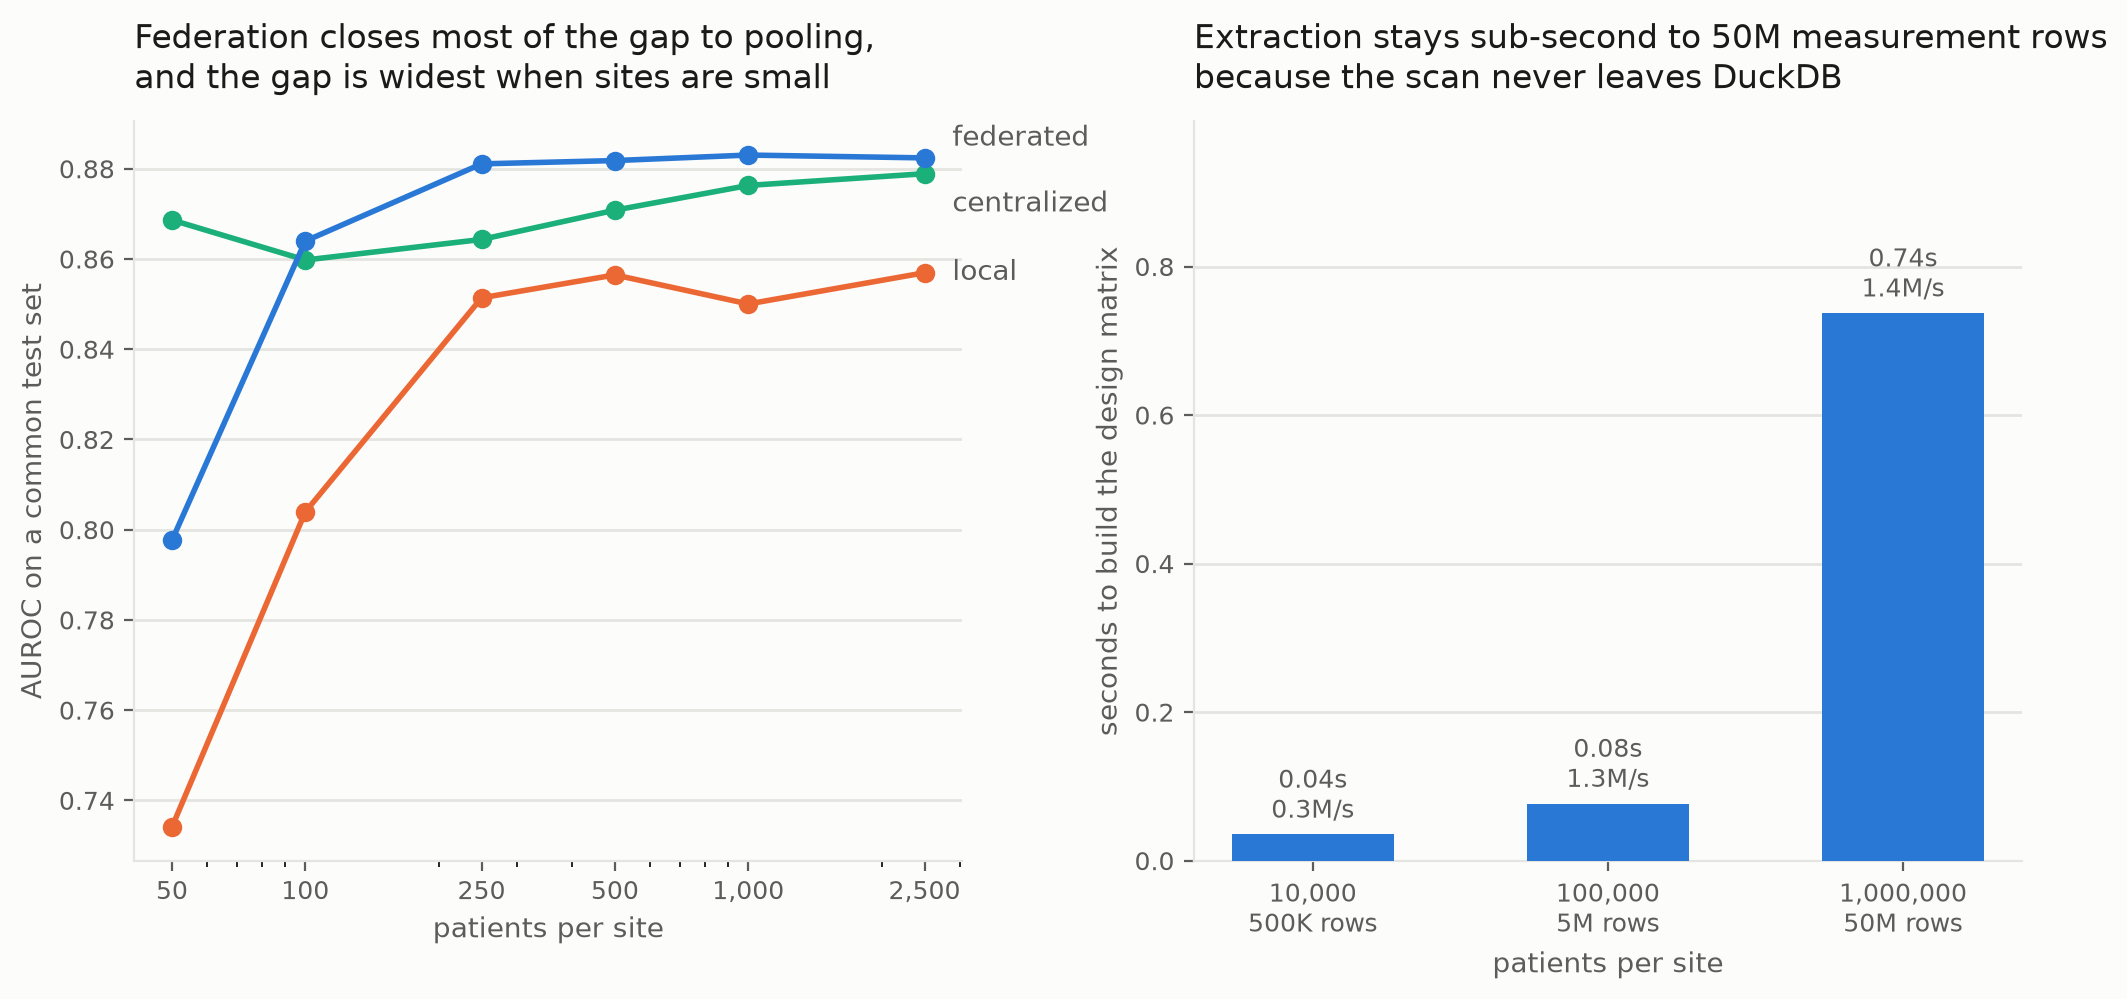
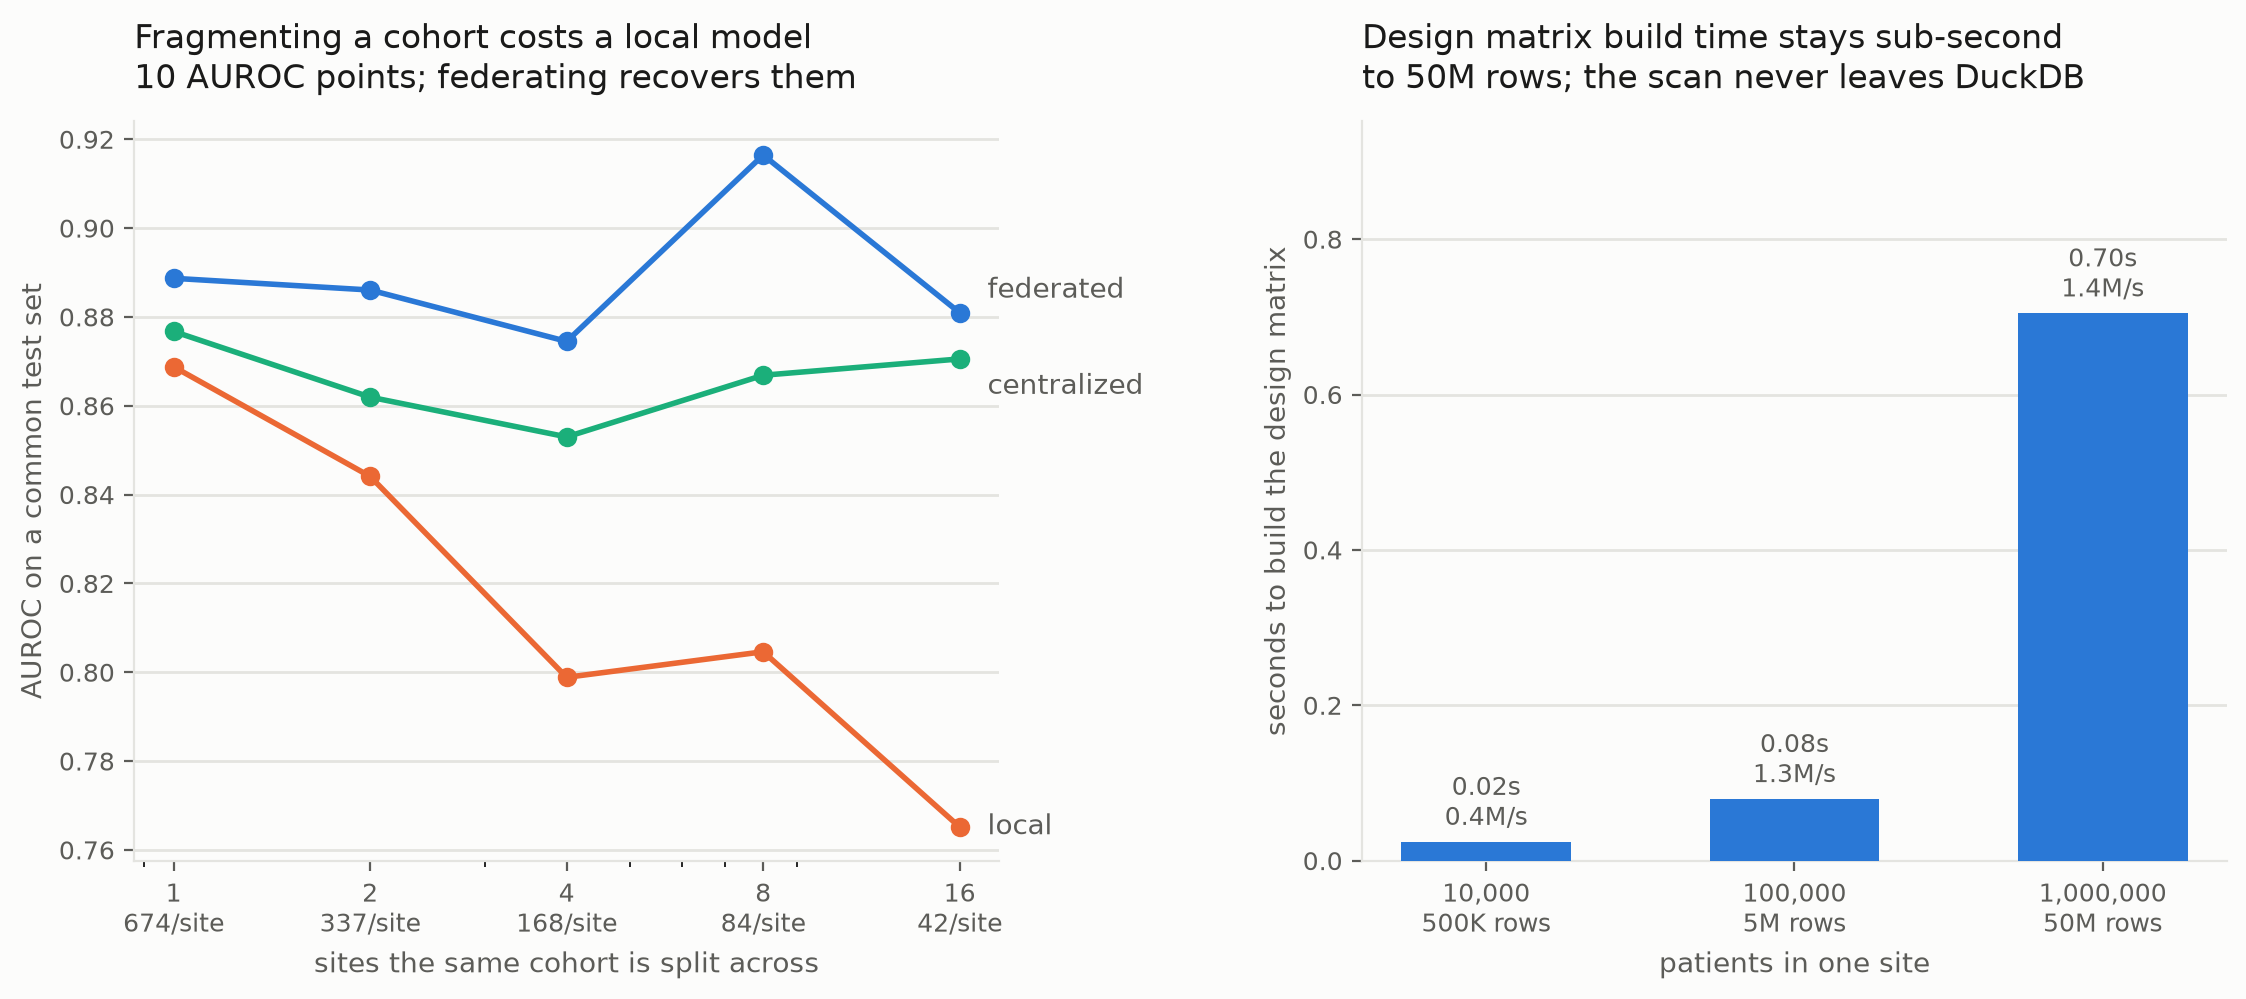
Build the figure on a real OMOP dataset instead of Gaussians
The accuracy panel now runs on the public Synthea OMOP CDM export at
s3://synthea-omop/synthea1k, a real ETL-Synthea conversion that needs no
credentials. The task is incident prediction: 964 patients who had not yet
acquired concept 4217975 by 2015-01-01, features are the 30 commonest prior
conditions and 30 commonest prior drugs plus age, and prevalent cases are
excluded so the outcome cannot be read off the history.

The experiment holds the cohort fixed and splits it across more sites. A local
model falls from 0.869 to 0.765 AUROC as the data fragments to 42 patients a
site, while FedAvg holds near 0.88, averaged over five seeds.

Checked the signal is real before building on it: positives are younger than
negatives, 20 against 43, and the strongest coefficients are paediatric drug
exposures, so the model is picking up lifestage rather than a leak.

diff --git a/examples/fl_benchmark.py b/examples/fl_benchmark.py
@@ -3,6 +3,7 @@ from __future__ import annotations
 import copy
 import json
 import time
+import urllib.request
 from pathlib import Path
 
 import duckdb
@@ -15,9 +16,14 @@ import omopflare as of
 
 HERE = Path(__file__).parent
 OUT = HERE / "fl_benchmark.json"
-SITES = 5
-FEATURES = 20
-ROUNDS = 25
+CDM = HERE / ".synthea1k"
+BUCKET = "https://synthea-omop.s3.amazonaws.com/synthea1k"
+TABLES = ("person", "condition_occurrence", "drug_exposure", "observation_period")
+
+OUTCOME = 4217975
+LANDMARK = "2015-01-01"
+ROUNDS = 20
+SEEDS = 5
 
 
 class Net(nn.Module):
@@ -30,30 +36,78 @@ class Net(nn.Module):
         return self.net(x).squeeze(-1)
 
 
-def make_cohort(n: int, rng: np.random.Generator, beta: np.ndarray, shift: float) -> tuple[np.ndarray, np.ndarray]:
-    """Draw a site whose covariate means are shifted, so the sites are not identically distributed.
+def fetch() -> Path:
+    """Download the public Synthea OMOP CDM export, which needs no credentials."""
+    CDM.mkdir(exist_ok=True)
+    for table in TABLES:
+        target = CDM / f"{table}.csv"
+        if not target.exists():
+            urllib.request.urlretrieve(f"{BUCKET}/{table}.csv", target)
+    return CDM
+
+
+def cohort(source: of.OmopSource) -> tuple[np.ndarray, np.ndarray, of.FeatureSpec]:
+    """Build an incident-prediction cohort: who acquires the outcome after the landmark.
 
     Args:
-        n: Patients to draw.
-        rng: Source of randomness.
-        beta: Shared coefficients, so one model can fit every site.
-        shift: Per-site mean offset.
+        source: The CDM to read.
 
     Returns:
-        The covariates and the binary outcome.
+        The design matrix, the labels and the spec used.
     """
-    X = rng.normal(shift, 1.0, size=(n, len(beta)))
-    p = 1.0 / (1.0 + np.exp(-(X @ beta)))
-    return X, (rng.random(n) < p).astype(np.float64)
+    common = f"""
+        select condition_concept_id from condition_occurrence
+        where condition_concept_id > 0 and condition_concept_id <> {OUTCOME}
+          and condition_start_date < date '{LANDMARK}'
+        group by 1 having count(distinct person_id) >= 30 order by count(distinct person_id) desc limit 30
+    """
+    drugs = f"""
+        select drug_concept_id from drug_exposure
+        where drug_concept_id > 0 and drug_exposure_start_date < date '{LANDMARK}'
+        group by 1 having count(distinct person_id) >= 30 order by count(distinct person_id) desc limit 30
+    """
+    spec = of.FeatureSpec(
+        features=tuple(
+            [of.Feature(f"c{r[0]}", r[0], "condition_occurrence") for r in source.sql(common).fetchall()]
+            + [of.Feature(f"d{r[0]}", r[0], "drug_exposure") for r in source.sql(drugs).fetchall()]
+        ),
+        vocabulary_version="synthea-omop-1k",
+        lookback_days=3650,
+    )
+    index = f"""
+        select p.person_id, date '{LANDMARK}' as index_date, 2015 - p.year_of_birth as age,
+               cast(max(case when c.condition_concept_id = {OUTCOME}
+                             and c.condition_start_date >= date '{LANDMARK}' then 1 else 0 end) as double) as label
+        from person p
+        left join condition_occurrence c on c.person_id = p.person_id
+        where p.person_id not in (
+            select person_id from condition_occurrence
+            where condition_concept_id = {OUTCOME} and condition_start_date < date '{LANDMARK}'
+        )
+        group by p.person_id, p.year_of_birth
+    """
+    ids, X = of.design_matrix(source, spec, index)
+    table = source.sql(index).arrow().read_all()
+    meta = dict(
+        zip(
+            table.column("person_id").to_pylist(),
+            zip(table.column("age").to_pylist(), table.column("label").to_pylist(), strict=True),
+            strict=True,
+        )
+    )
+    age = np.array([[meta[int(i)][0]] for i in ids], dtype=np.float64)
+    y = np.array([meta[int(i)][1] for i in ids], dtype=np.float64)
+    return np.hstack([np.nan_to_num(X), age]), y, spec
 
 
 def fit(X: np.ndarray, y: np.ndarray, epochs: int, init: dict | None = None) -> Net:
     model = Net(X.shape[1])
     if init is not None:
         model.load_state_dict(init)
-    loader = of.dataloader(of.CohortDataset(X, y), batch_size=64, shuffle=True)
-    criterion = nn.BCEWithLogitsLoss()
+    positives = max(y.sum(), 1.0)
+    criterion = nn.BCEWithLogitsLoss(pos_weight=torch.tensor((len(y) - positives) / positives, dtype=torch.float32))
     optimizer = torch.optim.Adam(model.parameters(), lr=5e-3)
+    loader = of.dataloader(of.CohortDataset(X, y), batch_size=32, shuffle=True)
     model.train()
     for _ in range(epochs):
         for features, labels in loader:
@@ -66,8 +120,7 @@ def fit(X: np.ndarray, y: np.ndarray, epochs: int, init: dict | None = None) -> 
 def auroc(model: Net, X: np.ndarray, y: np.ndarray) -> float:
     model.eval()
     with torch.no_grad():
-        scores = torch.sigmoid(model(torch.from_numpy(X).float())).numpy()
-    return float(roc_auc_score(y, scores))
+        return float(roc_auc_score(y, torch.sigmoid(model(torch.from_numpy(X).float())).numpy()))
 
 
 def fedavg(shards: list[tuple[np.ndarray, np.ndarray]], rounds: int = ROUNDS) -> Net:
@@ -83,20 +136,41 @@ def fedavg(shards: list[tuple[np.ndarray, np.ndarray]], rounds: int = ROUNDS) ->
     return model
 
 
-def accuracy_curve() -> list[dict[str, float]]:
-    rng = np.random.default_rng(0)
-    beta = rng.normal(0, 0.6, size=FEATURES)
-    shifts = np.linspace(-0.6, 0.6, SITES)
-    Xte, yte = make_cohort(20000, np.random.default_rng(7), beta, 0.0)
+def fragmentation_curve() -> list[dict[str, float]]:
+    """Hold the total cohort fixed and split it across more and more sites."""
+    X, y, spec = cohort(of.OmopSource(fetch()))
+    print(f"cohort {len(y)} patients, {int(y.sum())} events, {X.shape[1]} features ({spec.width} from the spec)")
 
     rows = []
-    for n in (50, 100, 250, 500, 1000, 2500):
-        shards = [make_cohort(n, rng, beta, s) for s in shifts]
-        local = float(np.mean([auroc(fit(X, y, 30), Xte, yte) for X, y in shards]))
-        federated = auroc(fedavg(shards), Xte, yte)
-        pooled = auroc(fit(np.vstack([s[0] for s in shards]), np.concatenate([s[1] for s in shards]), 30), Xte, yte)
-        rows.append({"per_site_n": n, "local": local, "federated": federated, "centralized": pooled})
-        print(f"n={n:5d}/site  local {local:.3f}  federated {federated:.3f}  centralized {pooled:.3f}", flush=True)
+    for sites in (1, 2, 4, 8, 16):
+        local, federated, pooled = [], [], []
+        for seed in range(SEEDS):
+            rng = np.random.default_rng(seed)
+            order = rng.permutation(len(y))
+            cut = int(0.7 * len(y))
+            train, test = order[:cut], order[cut:]
+            Xtr, ytr, Xte, yte = X[train], y[train], X[test], y[test]
+            scaler = of.SiteStats.from_matrix(Xtr)
+            Xtr, Xte = of.standardize(Xtr, scaler), of.standardize(Xte, scaler)
+
+            parts = np.array_split(rng.permutation(len(ytr)), sites)
+            shards = [(Xtr[p], ytr[p]) for p in parts if ytr[p].sum() > 0]
+            local.append(float(np.mean([auroc(fit(sx, sy, 40), Xte, yte) for sx, sy in shards])))
+            federated.append(auroc(fedavg(shards), Xte, yte))
+            pooled.append(auroc(fit(Xtr, ytr, 40), Xte, yte))
+        row = {
+            "sites": sites,
+            "patients_per_site": int(0.7 * len(y) / sites),
+            "local": float(np.mean(local)),
+            "federated": float(np.mean(federated)),
+            "centralized": float(np.mean(pooled)),
+        }
+        rows.append(row)
+        print(
+            f"{sites:2d} sites ({row['patients_per_site']:3d}/site)  "
+            f"local {row['local']:.3f}  federated {row['federated']:.3f}  centralized {row['centralized']:.3f}",
+            flush=True,
+        )
     return rows
 
 
@@ -139,8 +213,7 @@ def throughput() -> list[dict[str, float]]:
 
 
 if __name__ == "__main__":
-    print("accuracy")
-    accuracy = accuracy_curve()
-    print("\nthroughput")
+    accuracy = fragmentation_curve()
+    print()
     scale = throughput()
     OUT.write_text(json.dumps({"accuracy": accuracy, "throughput": scale}, indent=2) + "\n")

diff --git a/examples/fl_figure.py b/examples/fl_figure.py
@@ -21,12 +21,12 @@ def thousands(value: float, _: int) -> str:
 def main() -> None:
     payload = json.loads(DATA.read_text())
     accuracy, throughput = payload["accuracy"], payload["throughput"]
-    ns = [row["per_site_n"] for row in accuracy]
+    ns = [row["sites"] for row in accuracy]
 
-    fig, (left, right) = plt.subplots(1, 2, figsize=(12.5, 4.8), facecolor=SURFACE)
-    fig.subplots_adjust(wspace=0.28, right=0.88)
+    fig, (left, right) = plt.subplots(1, 2, figsize=(13.5, 4.8), facecolor=SURFACE)
+    fig.subplots_adjust(wspace=0.42, right=0.9)
 
-    nudge = {"centralized": -11, "federated": 7, "local": 0}
+    nudge = {"centralized": -10, "federated": 8, "local": 0}
     for name, color in SERIES.items():
         values = [row[name] for row in accuracy]
         left.plot(ns, values, color=color, lw=2, marker="o", ms=6, zorder=3)
@@ -42,10 +42,11 @@ def main() -> None:
     left.set_xscale("log")
     left.set_xticks(ns)
     left.xaxis.set_major_formatter(FuncFormatter(thousands))
-    left.set_xlabel("patients per site", color=MUTED, fontsize=10)
+    left.set_xticklabels([f"{row['sites']}\n{row['patients_per_site']}/site" for row in accuracy])
+    left.set_xlabel("sites the same cohort is split across", color=MUTED, fontsize=10)
     left.set_ylabel("AUROC on a common test set", color=MUTED, fontsize=10)
     left.set_title(
-        "Federation closes most of the gap to pooling,\nand the gap is widest when sites are small",
+        "Fragmenting a cohort costs a local model\n10 AUROC points; federating recovers them",
         color=INK,
         fontsize=12,
         loc="left",
@@ -70,11 +71,11 @@ def main() -> None:
 
     labels = [f"{s:,}\n{rows_label(row['events'])}" for s, row in zip(sizes, throughput, strict=True)]
     right.set_xticklabels(labels)
-    right.set_xlabel("patients per site", color=MUTED, fontsize=10)
+    right.set_xlabel("patients in one site", color=MUTED, fontsize=10)
     right.set_ylabel("seconds to build the design matrix", color=MUTED, fontsize=10)
     right.set_ylim(0, max(seconds) * 1.35)
     right.set_title(
-        "Extraction stays sub-second to 50M measurement rows\nbecause the scan never leaves DuckDB",
+        "Design matrix build time stays sub-second\nto 50M rows; the scan never leaves DuckDB",
         color=INK,
         fontsize=12,
         loc="left",
